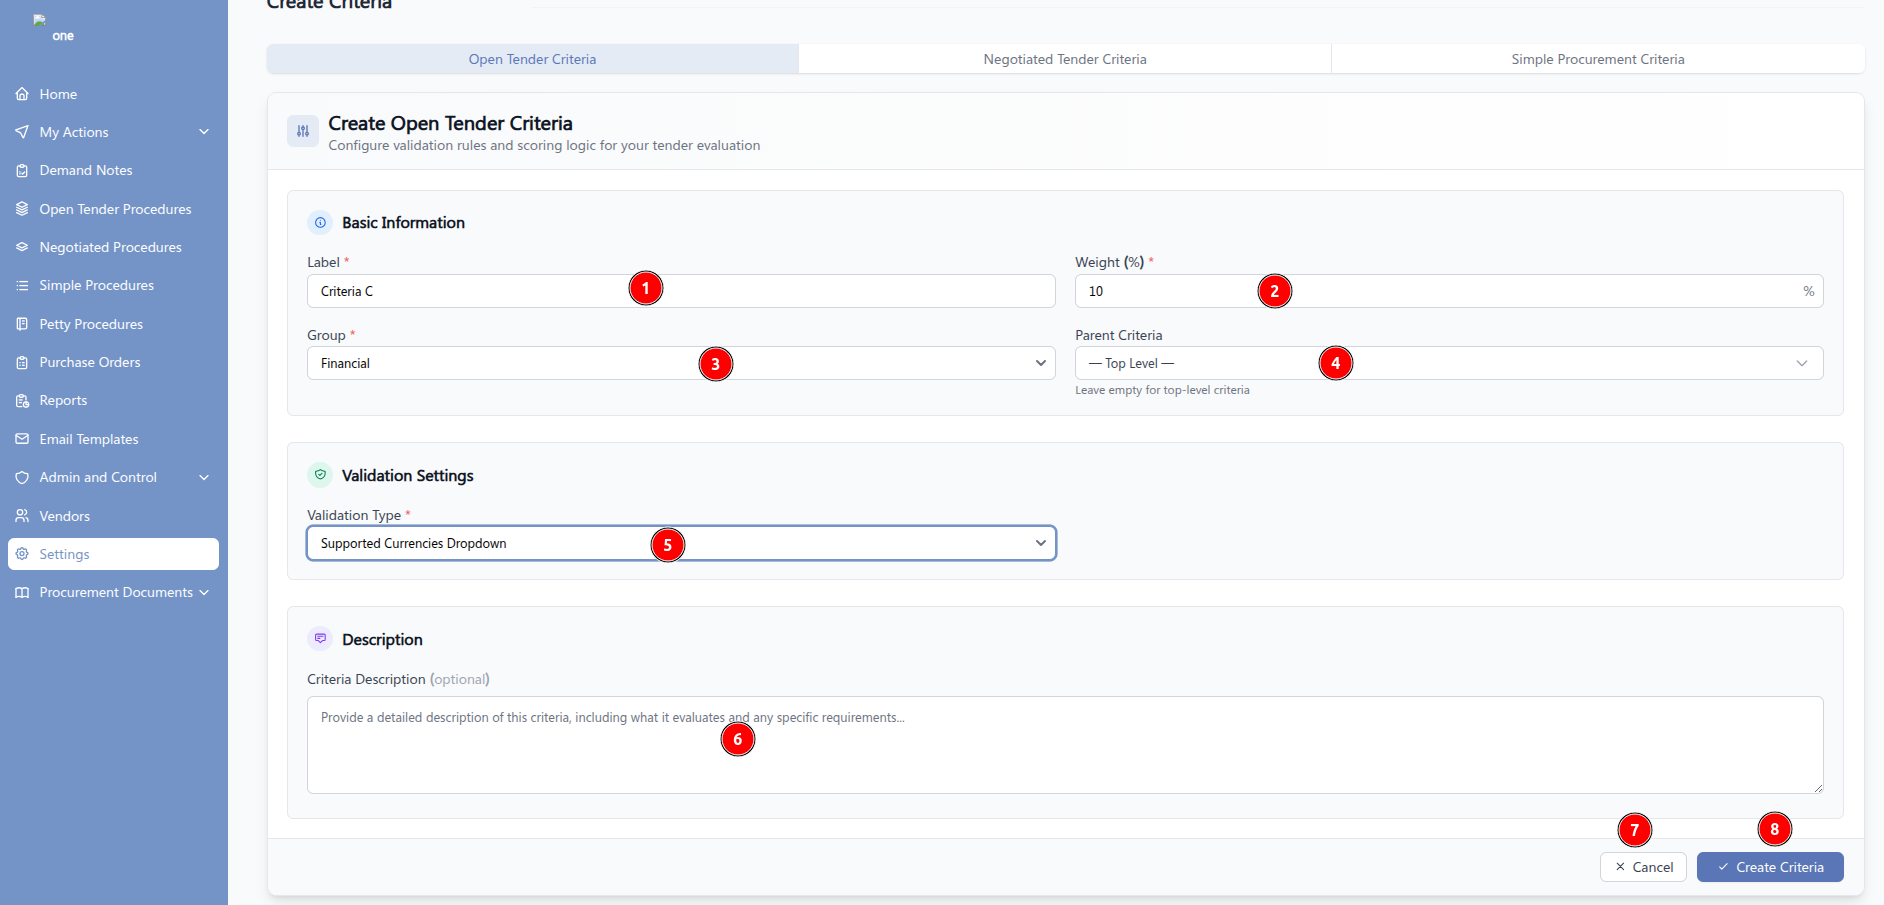
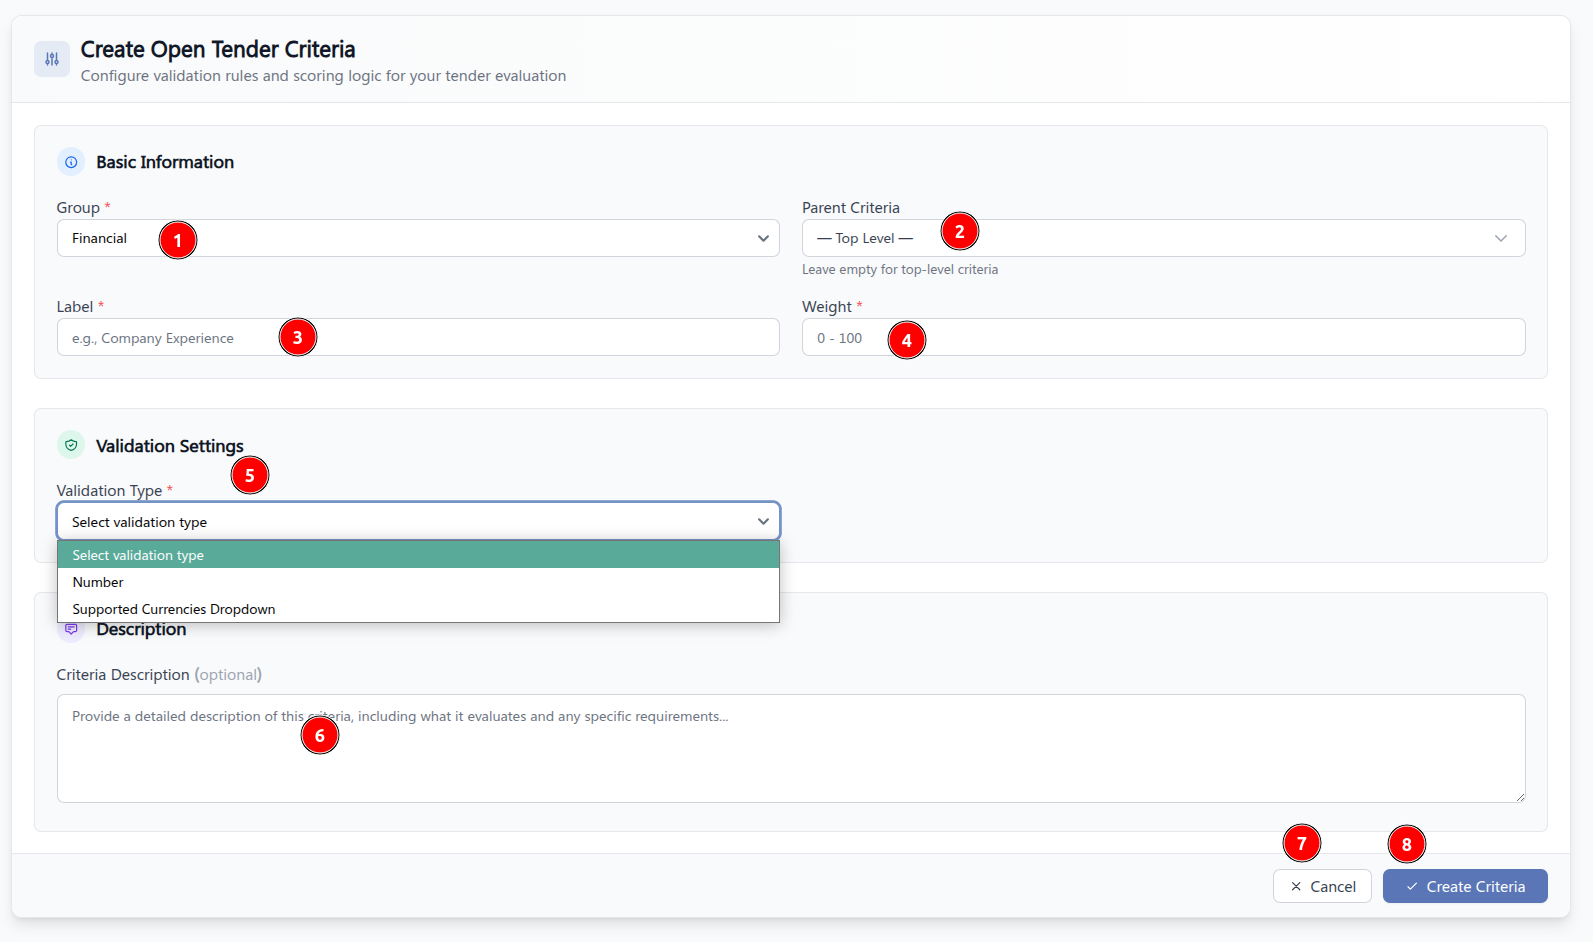
Added additional info

diff --git a/docs/Settings/All Criteria/open_tender.md b/docs/Settings/All Criteria/open_tender.md
@@ -8,40 +8,58 @@ sidebar_position: 2
 
 ## Administrative Criteria
 
-The form consists of 6 fields.
+The form consists of 8 fields.
 
 ![Administrative Criteria](/img/settings/criteria/settings_open_tender_administrative_create.png)
 
-1. **Label** – Title of the criteria  
-2. **Weight** – Value is:
+1. **Group** – Select **Administrative**  
+2. **Parent Criteria** – Select **Top Level**  
+3. **Label** – Title of the criteria  
+4. **Weight** – Value is:
    - `0` for No  
    - `1` for Yes  
-3. **Group** – Select **Administrative**  
-4. **Parent Criteria** – Always **Top Level**  
-5. **Validation Type** – Boolean (Yes/No)  
+5. **Validation Type** – Select Boolean (Yes/No)  
 6. **Description** – Optional reference field  
+7. **Cancel** - Cancel the criteria creation
+8. **Create Criteria** - Create the criteria
+
+### Notes 
+- The **Parent Criteria** is always **--Top Level--**
+- The **Weight** is by default 0
+- The **Validation Type** is always **Boolean (Yes/No)**.
 
 ---
 
 ## Technical Criteria
 
-The form consists of 9 fields.
+The form consists of 11 fields.
 
 ![Technical Criteria](/img/settings/criteria/settings_open_tender_technical_create.png)
 
-1. **Label** – Title of the criteria  
-2. **Weight** –  
+1. **Group** – Select **Technical**  
+2. **Parent Criteria** –  
+   - Top level (no child)  
+   - Or select parent from dropdown if the criteria being created is a child
+3. **Label** – Title of the criteria  
+4. **Weight** –  
    - If no child → independent  
    - If has child → sum of child weights must equal parent weight  
-3. **Group** – Select **Technical**  
-4. **Parent Criteria** –  
-   - Top level (no child)  
-   - Or select parent from dropdown  
 5. **Validation Type** – Number  
 6. **Minimum Value** – Minimum allowed value  
 7. **Maximum Value** – Maximum allowed value  
 8. **Greater Than (gt)** – Value must not be below this  
 9. **Description** – Optional  
+10. **Cancel** - Cancel the criteria creation
+11. **Create Criteria** - Create the criteria
+
+### Notes 
+- The **Parent Criteria** can be **--Top Level--** or any other parent.
+- The **Weight** is flexible: for top-level criteria, any value applies; for child criteria, the weights of all siblings must sum to equal their parent's weight.
+- All top-level weights must total 100. If they don't, the system will normalize them to 100 automatically and perform calculations.
+- The **Validation Type** is always **Boolean (Yes/No)**.
+- The **Minimum Value** is the lowest score an evaluator is permitted to assign.
+- The **Maximum Value** is the highest score an evaluator is permitted to assign.
+- The **Greater Than (gt)** is a threshold value; the evaluator's score must strictly exceed this number.
 
 ---
 
@@ -51,12 +69,12 @@ The form consists of 6 fields.
 
 ![Financial Criteria](/img/settings/criteria/settings_open_tender_financial_create.png)
 
-1. **Label** – Title of the criteria  
-2. **Weight** –  
-   - Same rule as Technical criteria  
-3. **Group** – Select **Financial**  
-4. **Parent Criteria** –  
-   - Top level or select parent  
+1. **Group** – Select **Financial**  
+2. **Parent Criteria** –  
+   - Top level (no child)  
+   - Or select parent from dropdown if the criteria being created is a child
+3. **Label** – Title of the criteria  
+4. **Weight**     
 5. **Validation Type** – Two types:
    - **Number**
      - Requires Minimum, Maximum, and Greater Than values  
@@ -64,7 +82,17 @@ The form consists of 6 fields.
      - Displays available currencies during evaluation  
 6. **Description** – Optional  
 
-## Notes
+### Notes
+- The **Parent Criteria** can be **--Top Level--** or any other parent.
+- The **Weight** is only applicable for **Number** validation type. The field is flexible: for top-level criteria, any value applies; for child criteria, the weights of all siblings must sum to equal their parent's weight.
+- If the validation type is set as *Number**:
+   - The **Minimum Value** is the lowest score an evaluator is permitted to assign.
+   - The **Maximum Value** is the highest score an evaluator is permitted to assign.
+   - The **Greater Than (gt)** is a threshold value; the evaluator's score must strictly exceed this number.
+- If the validation type is set as **Supported Currency**:
+   - The **Weight** field has no significance.
+
+## Summary
 
 - Ensure weight distribution is correct when using parent-child criteria
 - Validation rules must be properly defined to avoid errors during evaluation

diff --git a/docs/Settings/All Criteria/negotiated_tender.md b/docs/Settings/All Criteria/negotiated_tender.md
@@ -14,17 +14,73 @@ The process is similar to Open Tender.
 
 ![Administrative Criteria](/img/settings/criteria/settings_open_tender_administrative_create.png)
 
+. **Group** – Select **Administrative**  
+2. **Parent Criteria** – Select **Top Level**  
+3. **Label** – Title of the criteria  
+4. **Weight** – Value is:
+   - `0` for No  
+   - `1` for Yes  
+5. **Validation Type** – Select Boolean (Yes/No)  
+6. **Description** – Optional reference field  
+7. **Cancel** - Cancel the criteria creation
+8. **Create Criteria** - Create the criteria
+
+### Notes 
+- The **Parent Criteria** is always **--Top Level--**
+- The **Weight** is by default 0
+- The **Validation Type** is always **Boolean (Yes/No)**.
+
+---
+
 ## Technical Criteria
 
 - Same fields and rules as Open Tender Technical  
 
 ![Technical Criteria](/img/settings/criteria/settings_open_tender_technical_create.png)
 
+1. **Group** – Select **Technical**  
+2. **Parent Criteria** –  
+   - Top level (no child)  
+   - Or select parent from dropdown if the criteria being created is a child
+3. **Label** – Title of the criteria  
+4. **Weight** –  
+   - If no child → independent  
+   - If has child → sum of child weights must equal parent weight  
+5. **Validation Type** – Number  
+6. **Minimum Value** – Minimum allowed value  
+7. **Maximum Value** – Maximum allowed value  
+8. **Greater Than (gt)** – Value must not be below this  
+9. **Description** – Optional  
+10. **Cancel** - Cancel the criteria creation
+11. **Create Criteria** - Create the criteria
+
+### Notes 
+- The **Parent Criteria** can be **--Top Level--** or any other parent.
+- The **Weight** is flexible: for top-level criteria, any value applies; for child criteria, the weights of all siblings must sum to equal their parent's weight.
+- All top-level weights must total 100. If they don't, the system will normalize them to 100 automatically and perform calculations.
+- The **Validation Type** is always **Boolean (Yes/No)**.
+- The **Minimum Value** is the lowest score an evaluator is permitted to assign.
+- The **Maximum Value** is the highest score an evaluator is permitted to assign.
+- The **Greater Than (gt)** is a threshold value; the evaluator's score must strictly exceed this number.
+
 ## Financial Criteria
 
 - Same fields and rules as Open Tender Financial 
 
 ![Financial Criteria](/img/settings/criteria/settings_open_tender_financial_create.png)
+
+1. **Group** – Select **Financial**  
+2. **Parent Criteria** –  
+   - Top level (no child)  
+   - Or select parent from dropdown if the criteria being created is a child
+3. **Label** – Title of the criteria  
+4. **Weight**     
+5. **Validation Type** – Two types:
+   - **Number**
+     - Requires Minimum, Maximum, and Greater Than values  
+   - **Supported Currency**
+     - Displays available currencies during evaluation  
+6. **Description** – Optional  
 
 ### Actions
 

diff --git a/docs/Settings/Management Teams/evaluation.md b/docs/Settings/Management Teams/evaluation.md
@@ -1,7 +1,7 @@
 ---
 id: settings-management-teams-evaluation
-title: Evaluaiton
-sidebar_label: Evaluaiton
+title: Evaluation
+sidebar_label: Evaluation
 sidebar_position: 2
 ---
 
